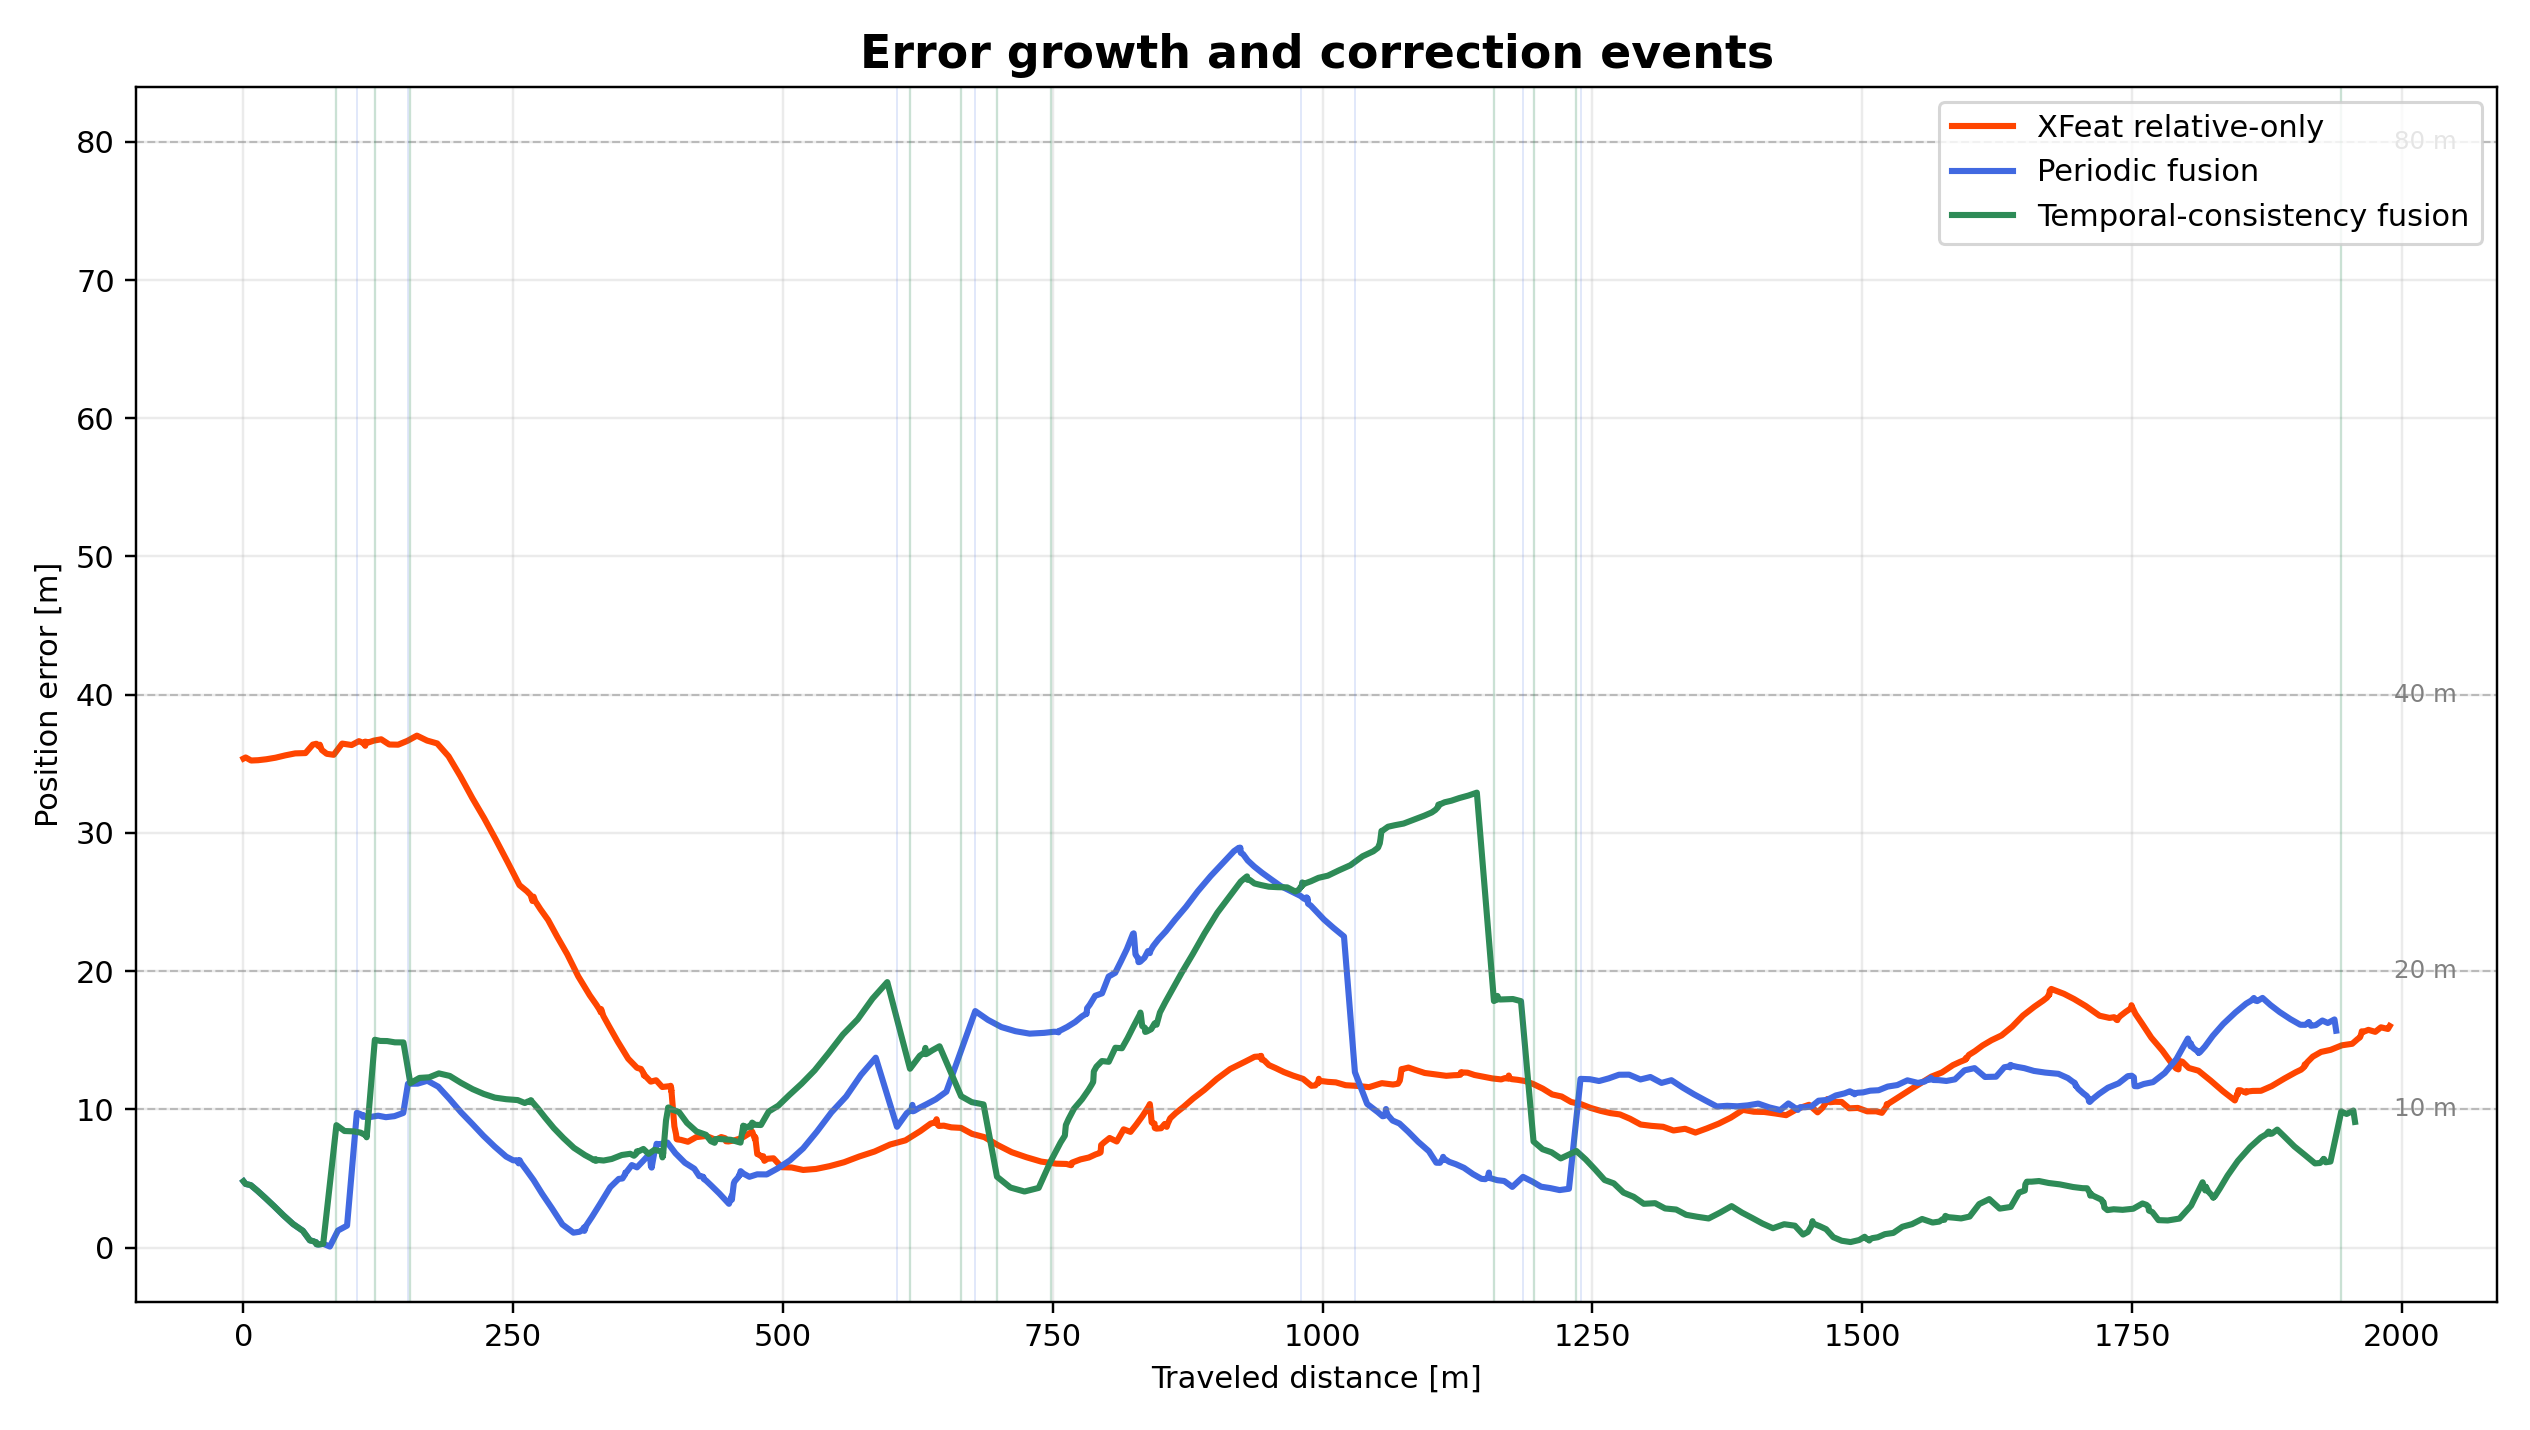
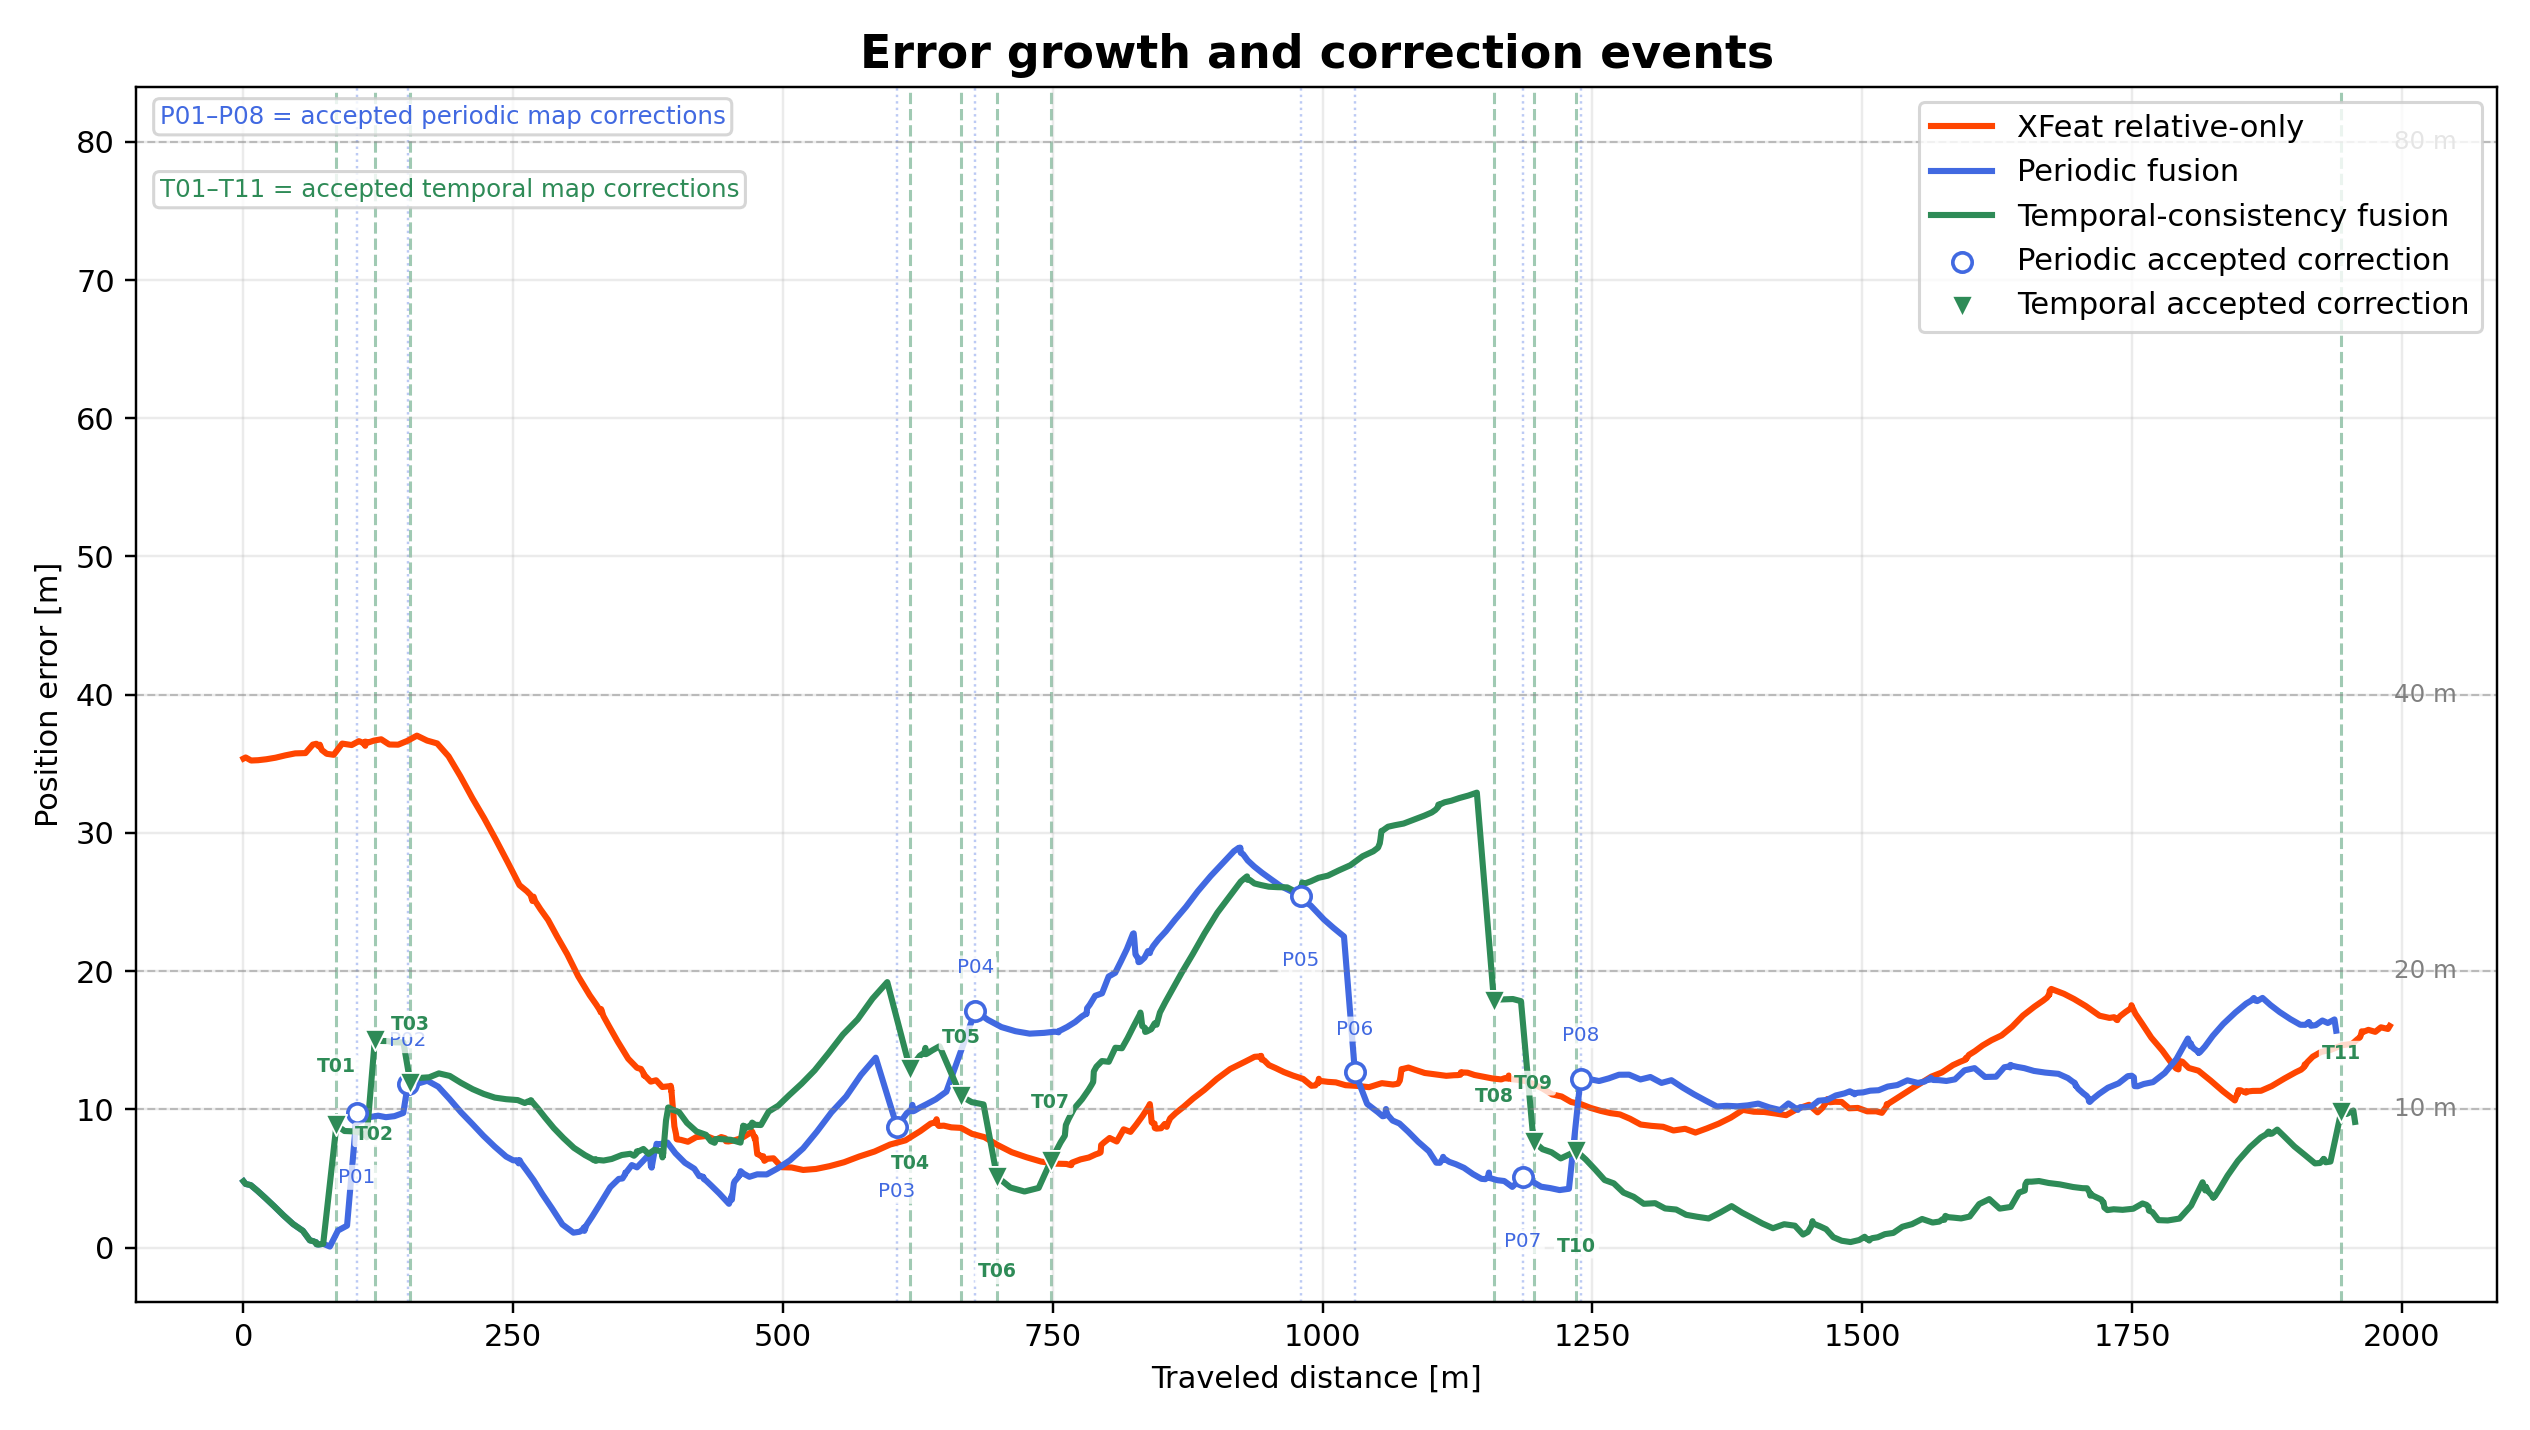
UPdate README; Plot for fusion error; requirement txt

diff --git a/scripts/villoc/reporting/report_01_fusion_overlay.py b/scripts/villoc/reporting/report_01_fusion_overlay.py
@@ -494,24 +494,180 @@ def plot_error_vs_distance(
             color="gray",
         )
 
-    # Vertical event markers
+    # -----------------------------------------------------------------
+    # Periodic accepted-correction event markers
+    # -----------------------------------------------------------------
     if len(periodic_events) > 0 and "_report_distance_m" in periodic_events.columns:
-        for d in periodic_events["_report_distance_m"].dropna().to_numpy():
-            ax.axvline(d, color="royalblue", linewidth=0.55, alpha=0.18)
+        periodic_dist = (
+            periodic_events["_report_distance_m"]
+            .dropna()
+            .astype(float)
+            .sort_values()
+            .to_numpy()
+        )
 
+        for j, d in enumerate(periodic_dist, start=1):
+            y = float(np.interp(
+                d,
+                periodic["_report_distance_m"].to_numpy(dtype=float),
+                periodic["_report_error_m"].to_numpy(dtype=float),
+            ))
+
+            ax.axvline(
+                d,
+                color="royalblue",
+                linewidth=0.8,
+                linestyle=":",
+                alpha=0.35,
+                zorder=1,
+            )
+
+            ax.scatter(
+                d,
+                y,
+                s=40,
+                marker="o",
+                facecolors="white",
+                edgecolors="royalblue",
+                linewidths=1.2,
+                zorder=6,
+                label="Periodic accepted correction" if j == 1 else None,
+            )
+
+            y_offset = -18 if j % 2 else 11
+
+            ax.annotate(
+                f"P{j:02d}",
+                xy=(d, y),
+                xytext=(0, y_offset),
+                textcoords="offset points",
+                ha="center",
+                va="top" if y_offset < 0 else "bottom",
+                fontsize=6.5,
+                fontweight="normal",
+                color="royalblue",
+                zorder=8,
+                bbox=dict(
+                    boxstyle="round,pad=0.15",
+                    facecolor="white",
+                    edgecolor="none",
+                    alpha=0.75,
+                ),
+            )
+
+    # -----------------------------------------------------------------
+    # Temporal accepted-correction event markers
+    # -----------------------------------------------------------------
     if len(temporal_events) > 0 and "_report_distance_m" in temporal_events.columns:
-        for d in temporal_events["_report_distance_m"].dropna().to_numpy():
-            ax.axvline(d, color="seagreen", linewidth=0.75, alpha=0.25)
+        temporal_dist = (
+            temporal_events["_report_distance_m"]
+            .dropna()
+            .astype(float)
+            .sort_values()
+            .to_numpy()
+        )
 
-    ax.set_title("Error growth and correction events", fontsize=15, fontweight="bold")
+        for i, d in enumerate(temporal_dist, start=1):
+            y = float(np.interp(
+                d,
+                temporal["_report_distance_m"].to_numpy(dtype=float),
+                temporal["_report_error_m"].to_numpy(dtype=float),
+            ))
+
+            ax.axvline(
+                d,
+                color="seagreen",
+                linewidth=1.0,
+                linestyle="--",
+                alpha=0.45,
+                zorder=1,
+            )
+
+            ax.scatter(
+                d,
+                y,
+                s=48,
+                marker="v",
+                color="seagreen",
+                edgecolors="white",
+                linewidths=0.6,
+                zorder=7,
+                label="Temporal accepted correction" if i == 1 else None,
+            )
+
+            # Move temporal labels opposite to periodic labels
+            y_offset = 16 if i % 2 else -28
+
+            ax.annotate(
+                f"T{i:02d}",
+                xy=(d, y),
+                xytext=(0, y_offset),
+                textcoords="offset points",
+                ha="center",
+                va="bottom" if y_offset > 0 else "top",
+                fontsize=6.2,
+                fontweight="bold",
+                color="seagreen",
+                zorder=8,
+                bbox=dict(
+                    boxstyle="round,pad=0.15",
+                    facecolor="white",
+                    edgecolor="none",
+                    alpha=0.8,
+                ),
+            )
+
+    # -----------------------------------------------------------------
+    # Correction label explanations
+    # -----------------------------------------------------------------
+    ax.text(
+        0.01,
+        0.985,
+        "P01–P08 = accepted periodic map corrections",
+        transform=ax.transAxes,
+        ha="left",
+        va="top",
+        fontsize=8.0,
+        color="royalblue",
+        bbox=dict(
+            boxstyle="round,pad=0.25",
+            facecolor="white",
+            alpha=0.80,
+            edgecolor="0.8",
+        ),
+    )
+
+    ax.text(
+        0.01,
+        0.925,
+        "T01–T11 = accepted temporal map corrections",
+        transform=ax.transAxes,
+        ha="left",
+        va="top",
+        fontsize=8.0,
+        color="seagreen",
+        bbox=dict(
+            boxstyle="round,pad=0.25",
+            facecolor="white",
+            alpha=0.80,
+            edgecolor="0.8",
+        ),
+    )
+
+    ax.set_title(
+        "Error growth and correction events",
+        fontsize=15,
+        fontweight="bold"
+    )
     ax.set_xlabel("Traveled distance [m]")
     ax.set_ylabel("Position error [m]")
     ax.grid(True, alpha=0.25)
     ax.legend(loc="best")
+
     fig.tight_layout()
     fig.savefig(out_png, dpi=220)
     plt.close(fig)
-
+    
 
 def make_folium_map(
     ref: pd.DataFrame,

diff --git a/README.md b/README.md
@@ -385,7 +385,7 @@ This README focuses on the final Villoc result.
 
 ## 12. Limitations
 
-This repository demonstrates a successful offline prototype, but several issues remain before production use:
+Several issues remain:
 
 * Absolute retrieval is still scene-dependent and can fail in repetitive or visually ambiguous areas.
 * Correct map candidates may exist below Top-1, so candidate-pool design remains important.
